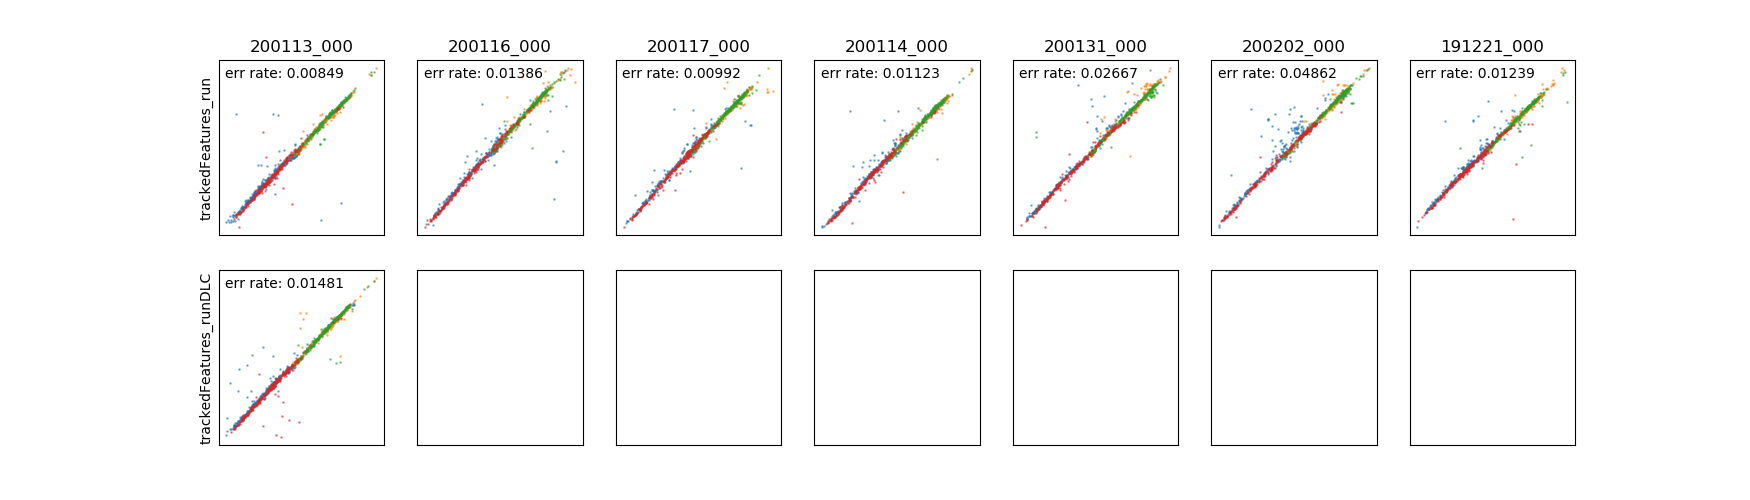
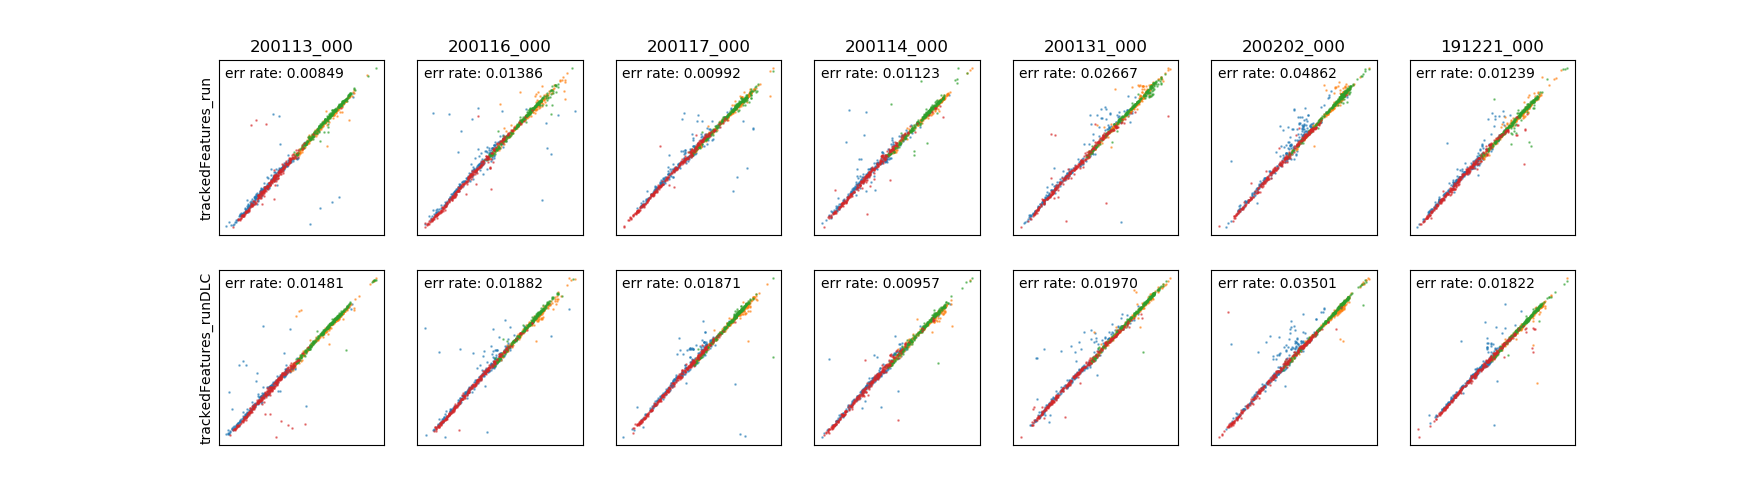
wip

diff --git a/tracking/deepposekit/model_comparison.py b/tracking/deepposekit/model_comparison.py
@@ -67,7 +67,7 @@ for s in sessions:
     for f in files:
         csv_name = os.path.join(os.environ['OBSDATADIR'], 'sessions', s, f)
         if os.path.exists(csv_name):
-            print('%s: loading tracking data...' % s)
+            print('%s: loading %s...' % (s, f))
             tracking = pd.read_csv(csv_name)
 
             for paw in paw_names:
@@ -118,7 +118,7 @@ for s_i, s in enumerate(sessions):
             error_rates[f_i, s_i] = np.mean(np.abs((y - y_hat) > thresh))
             axes[f_i, s_i].annotate('err rate: %.5f' % error_rates[f_i, s_i], xy=(.04, .9), xycoords='axes fraction')
 
-fig.savefig(os.path.join('tracking', 'deepposekit', 'figures', 'x_alignment'))
+fig.savefig(os.path.join('tracking', 'deepposekit', 'figures', 'x_alignment_thresh%i'%thresh))
 
 ## print average error rates across models
 print('------ERROR RATES------')

diff --git a/tracking/label/createTrainingData.m b/tracking/label/createTrainingData.m
@@ -135,8 +135,7 @@ addToTrainingSet(session, vid, trackedFeatures, trainingSet, 'skeleton', skeleto
 % sessionInfo = readtable(fullfile(getenv('OBSDATADIR'), 'spreadSheets', 'sessionInfo.xlsx'), 'sheet', 'trainingSetSessions');
 % sessions = sessionInfo.session(sessionInfo.include==1);
 
-% sessions = {'200113_000', '200116_000', '200117_000', '200114_000', '200131_000', '200202_000', '191221_000'};
-sessions = {'200116_000', '200117_000', '200114_000', '200131_000', '200202_000', '191221_000'};  % !!! temp
+sessions = {'200113_000', '200116_000', '200117_000', '200114_000', '200131_000', '200202_000', '191221_000'};
 
 for i = 1:length(sessions)
     fprintf('%i/%i ', i, length(sessions))
